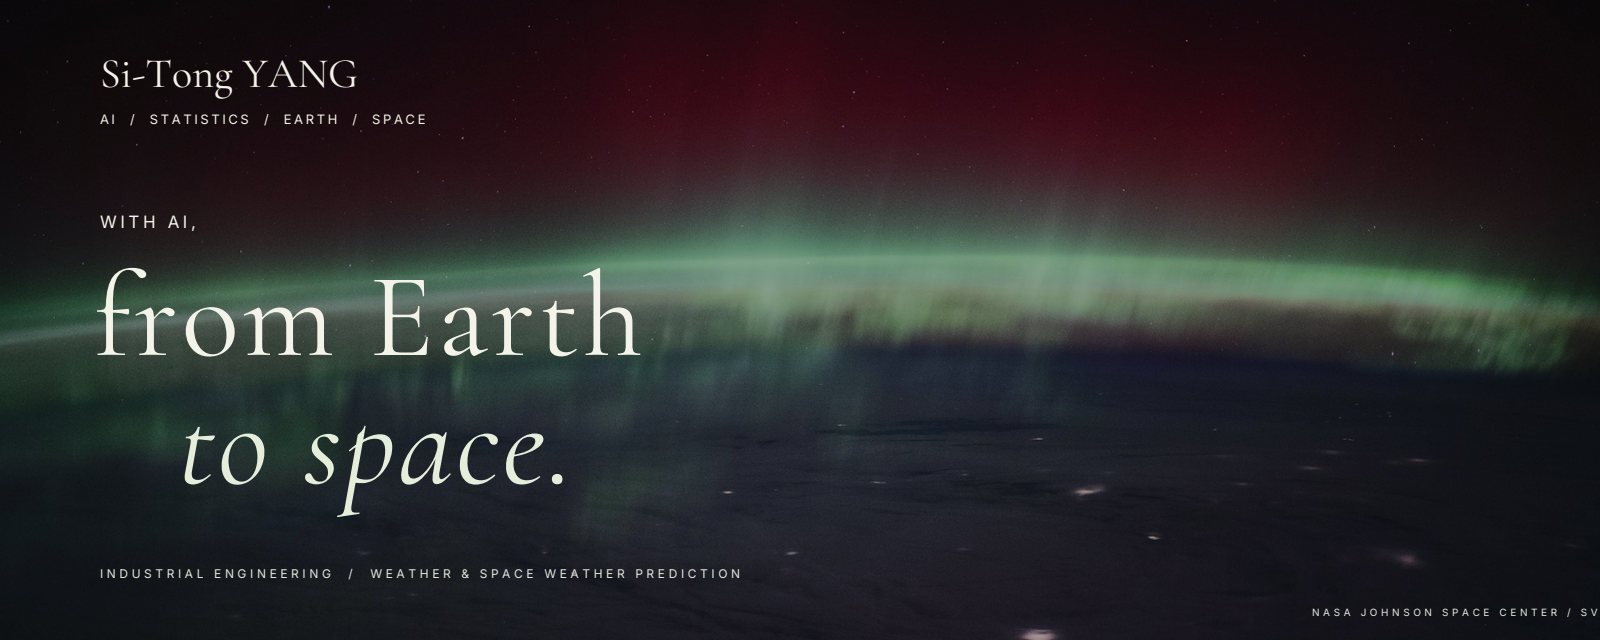
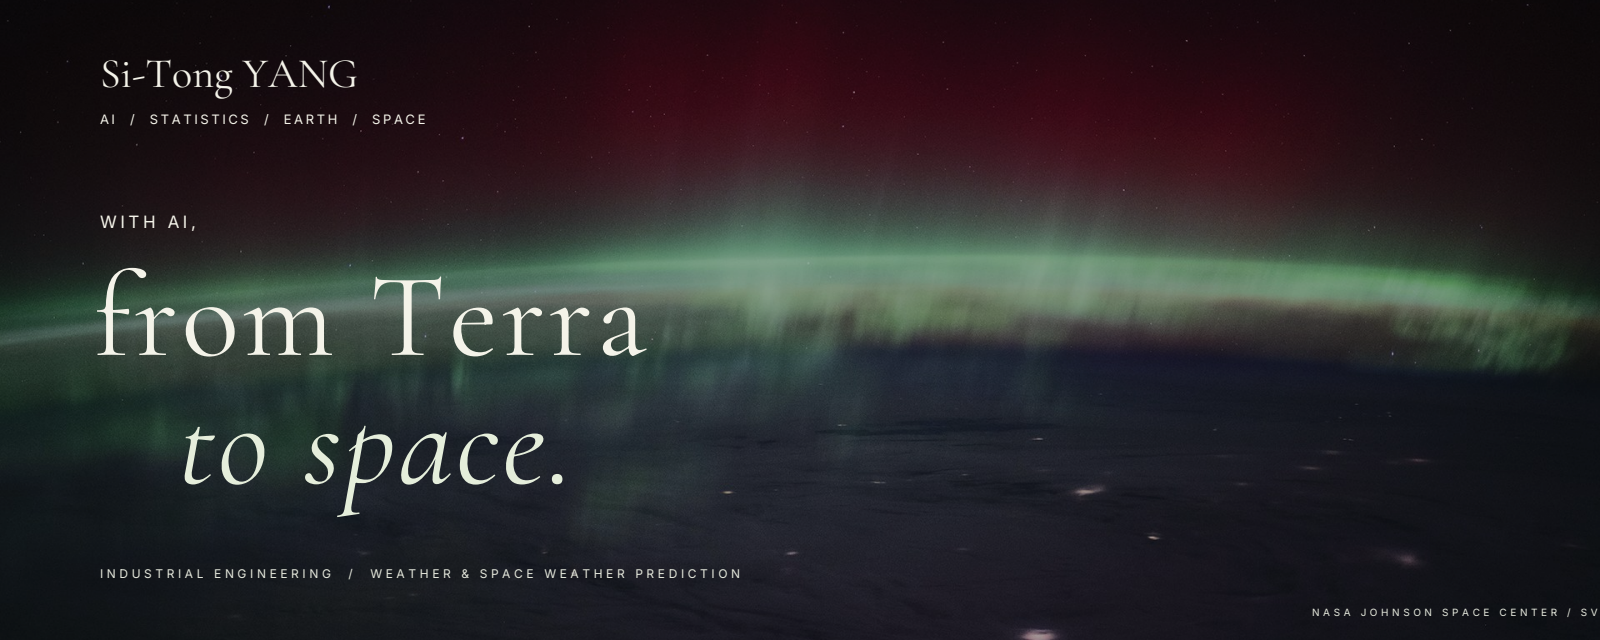
Refine Terra identity and terrestrial weather research scope

Changed region(s): [[0.2188, 0.4062, 0.4062, 0.5625]]

diff --git a/README.md b/README.md
@@ -1,8 +1,8 @@
-![Si-Tong YANG — With AI, from Earth to space. Aurora above Earth's horizon.](profile-banner.png)
+![Si-Tong YANG — With AI, from Terra to space. Aurora above Earth's horizon.](profile-banner.png)
 
 **PhD student in Industrial Engineering · Clemson University**
 
-I use statistics and machine learning, with a particular focus on **flow matching**, to forecast **global wind fields and space weather**. My interests span spatiotemporal modeling, the ionosphere, and the thermosphere.
+I use statistics and machine learning, with a particular focus on **flow matching**, to forecast **terrestrial weather and space weather**. My interests span spatiotemporal modeling, the ionosphere, and the thermosphere.
 
 [Research](#research) · [Methods](#methods) · [Code](https://github.com/phoenix102030?tab=repositories) · [Connect](#connect)
 
@@ -10,7 +10,7 @@ I use statistics and machine learning, with a particular focus on **flow matchin
 
 ### Research
 
-- **Global winds** — statistical and machine learning approaches to atmospheric forecasting.
+- **Terrestrial weather** — statistical and machine learning approaches to atmospheric forecasting.
 - **Space weather** — prediction in near-Earth space, including the ionosphere and thermosphere.
 
 ### Methods
